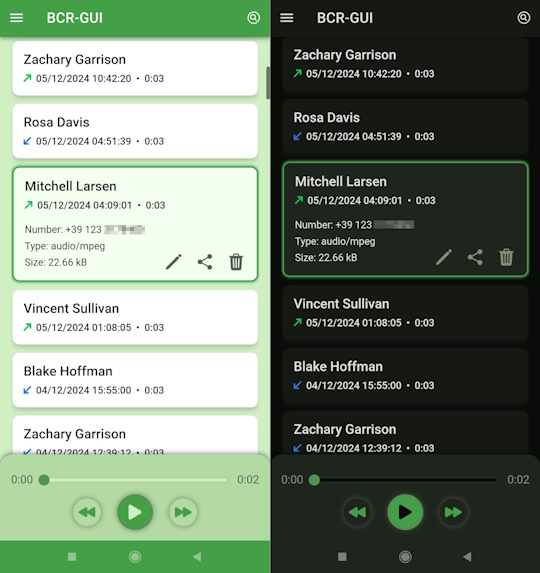
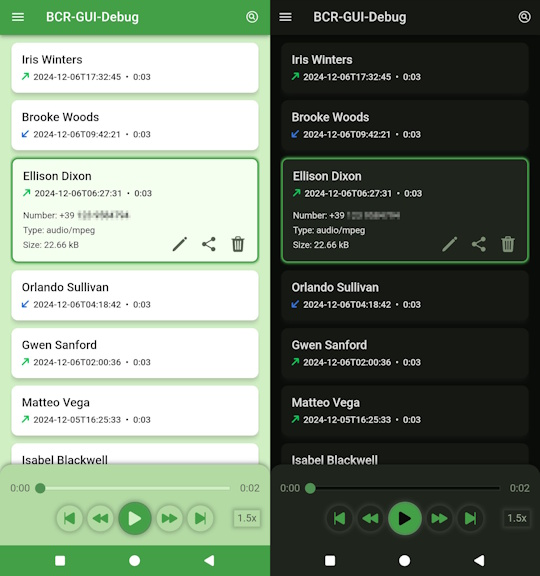
Closed version 1.11.0

diff --git a/README.md b/README.md
@@ -10,7 +10,7 @@ BCR-GUI is a call recordings manager app, started as _companion app_ for the gre
 - Huawei Call Recorder (see [here](https://github.com/nicorac/bcr-gui/issues/44))
 - [LineageOS](https://lineageos.org/) Call Recorder (see [here](https://github.com/nicorac/bcr-gui/issues/121))
 
-<img src="docs/images/screenshot-main.jpg?ver=1.10.0">
+<img src="docs/images/screenshot-main.jpg?ver=1.11.0">
 
 To manage BCR (and other call recorders) recordings, you need to use a file manager... and that's not so user-friendly 😉.
 It's hard to "extract" call informations from audio filename, and it's even harder to search them when the list grows.
@@ -24,12 +24,12 @@ If used with BCR, BCR-GUI needs **BCR v.1.49** (or newer) to work at its best; t
 ## Permissions
 
 - **BCR-GUI does not need root access** to work. \
-  It only needs **READ** access to the directory used by BCR to save recordings. At the first start, it asks you to select your recordings directory (using the well-known [Android SAF](https://developer.android.com/training/data-storage/shared/documents-files) dialogs) and allow read access to it.
+  It only needs access to the directory used by BCR to save recordings. At the first start, it asks you to select your recordings directory (using the well-known [Android SAF](https://developer.android.com/training/data-storage/shared/documents-files) dialogs) and allow access to it.
 
 - It **does not need Internet access** at all. \
   _NOTE:_ this may change in the future if an auto-update feature will be added, but actually the app can't send/receive anything to/from internet.
 
-- _(optional)_ It needs **Contacts** permission to update recordings names with contacts or create new contacts for recordings from unknown callers. Feel free to **deny** the permission: app will remember you how to enable it the next time you use a feature requiring it.
+- _(optional)_ It needs **Contacts** permission to update recordings names with contacts or create new contacts for recordings from unknown callers. Feel free to **deny** the permission: app will remind you how to enable it the next time you use a feature that requires it.
 
 ## What's working/missing?
 
@@ -66,8 +66,8 @@ Latest version is [available here](https://github.com/nicorac/bcr-gui/releases/)
 ## Libraries
 
 - Ionic 7
-- Capacitor 5 (with custom AndroidSAF plugin)
-- Angular 17
+- Capacitor 6 (with custom AndroidSAF and AudioPlayer plugins)
+- Angular 18
 - Icons from [Ionicons](https://ionic.io/ionicons/v4) and [FreeSVG (public domain icons)](https://freesvg.org/1547046949)
 
 ## License

diff --git a/CHANGELOG.md b/CHANGELOG.md
@@ -1,6 +1,6 @@
 # Version history
 
-## Version 1.11.0 (2025-xx-xx)
+## Version 1.11.0 (2025-06-25)
 
 New features:
 
